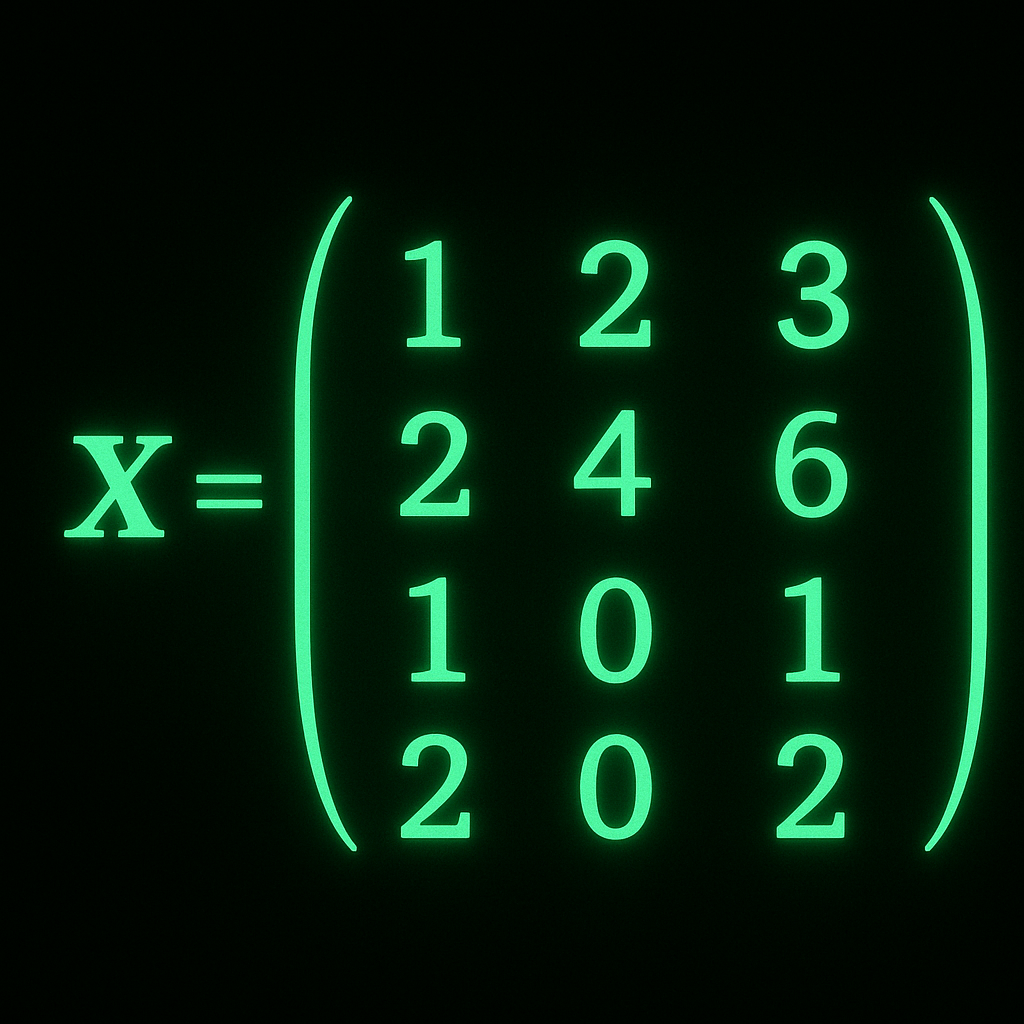
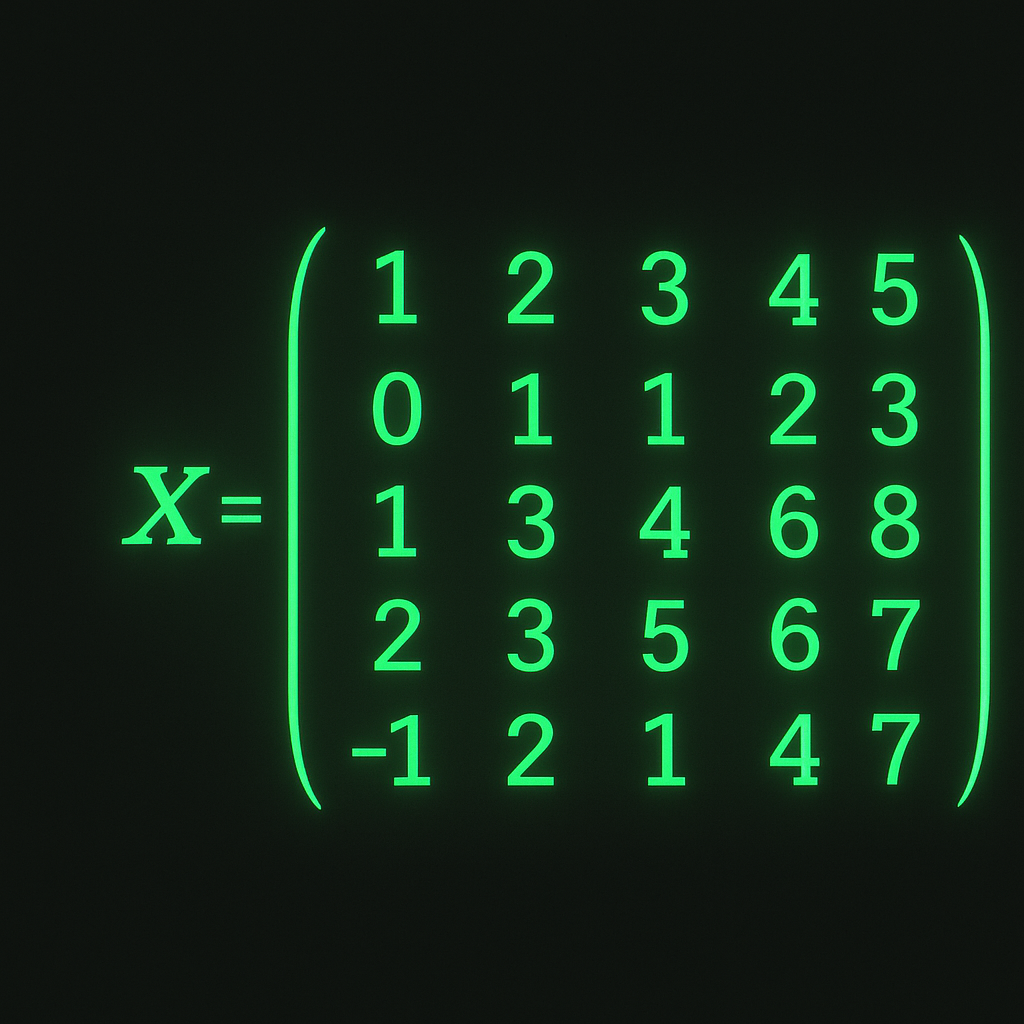
aghh

Changed region(s): [[0.0625, 0.1875, 0.6875, 0.8438], [0.7188, 0.1875, 0.9688, 0.8438]]

diff --git a/src/data/posts.ts b/src/data/posts.ts
@@ -318,65 +318,72 @@ the first and third rows. With these two rows, we can construct the others, as s
 $$
 X = A B =
 \\begin{bmatrix}
-1 & 2 & 3 \\\\
-2 & 4 & 6 \\\\
-1 & 0 & 1 \\\\
-2 & 0 & 2
+1 & 2 & 3 & 4 & 5 \\\\
+0 & 1 & 1 & 2 & 3 \\\\
+1 & 3 & 4 & 6 & 8 \\\\
+2 & 3 & 5 & 6 & 7 \\\\
+-1 & 2 & 1 & 4 & 7
 \\end{bmatrix}
-\\approx
+=
 \\begin{bmatrix}
 1 & 0 \\\\
-2 & 0 \\\\
 0 & 1 \\\\
-0 & 2
+1 & 1 \\\\
+2 & -1 \\\\
+-1 & 4
 \\end{bmatrix}
 \\begin{bmatrix}
-1 & 2 & 3 \\\\
-1 & 0 & 1
+1 & 2 & 3 & 4 & 5 \\\\
+0 & 1 & 1 & 2 & 3
 \\end{bmatrix}
 $$
 
-We can see that:
+Because:
 
 $$
 \\begin{aligned}
-\\text{Row}_2 &= 2 \\times \\text{Row}_1, \\\\
-\\text{Row}_4 &= 2 \\times \\text{Row}_3.
+\\text{Row}_3 &= \\text{Row}_1 + \\text{Row}_2, \\\\
+\\text{Row}_4 &= 2\\,\\text{Row}_1 - \\text{Row}_2, \\\\
+\\text{Row}_5 &= -\\text{Row}_1 + 4\\,\\text{Row}_2.
 \\end{aligned}
 $$
 
-Hence, the rank of \( X \) is **2** (only two linearly independent rows).
+Hence, the rank of **X** is **2** (only two linearly independent rows). We can
+conclude that the rank of a matrix gives us an idea of "information content" of a matrix,
+i.e., how many rows (or columns) are needed to represent the entire matrix. **Higher ranks 
+indicate more information content (less compressible), while lower-rank matrices indicate redundancy 
+(more compressible).**
 But how does this help in reducing parameters in LoRA?
 ## Matrix Decomposition
 Matrix decomposition is the process of breaking down a matrix into a product of two or more matrices.
-When we know the rank of a matrix, we can decompose it into two smaller matrices, without losing much information.
-for example, the above matrix \( X \) can be decomposed into two matrices \( A \) and \( B \):
+Now, 
+for example, the above matrix **X** can be decomposed into two matrices \( A \) and \( B \):
 $$
-X \approx A \times B =
+X = A \times B =
 \\begin{bmatrix}
-1 & 2 & 3 \\\\
-2 & 4 & 6 \\\\
-1 & 0 & 1 \\\\
-2 & 0 & 2
+1 & 2 & 3 & 4 & 5 \\\\
+0 & 1 & 1 & 2 & 3 \\\\
+1 & 3 & 4 & 6 & 8 \\\\
+2 & 3 & 5 & 6 & 7 \\\\
+-1 & 2 & 1 & 4 & 7
 \\end{bmatrix}
-\\approx
+=
 \\begin{bmatrix}
 1 & 0 \\\\
-2 & 0 \\\\
 0 & 1 \\\\
-0 & 2
+1 & 1 \\\\
+2 & -1 \\\\
+-1 & 4
 \\end{bmatrix}
 \\begin{bmatrix}
-1 & 2 & 3 \\\\
-1 & 0 & 1
+1 & 2 & 3 & 4 & 5 \\\\
+0 & 1 & 1 & 2 & 3
 \\end{bmatrix}
 $$
 
 Now the main parameter here is the rank (2 in this case), which determines the size of the decomposed matrices.
 By choosing a smaller rank, we can reduce the number of parameters significantly.
-For example, the original matrix \( X \) has \( 4 \times 3 = 12 \) parameters, while the decomposed matrices with rank 1
-have \( (4 \times 1) + (1 \times 3) = 7 \) parameters, which is a reduction of about 41.67%. This technique 
-is the core idea behind LoRA, and its efficiency increases with larger matrices commonly found in deep learning models (like LLMs)
+For example, the original matrix \( X \) has \( 5 \\times 5 = 25 \) parameters, while a rank-2 factorization uses \( (5 \\times 2) + (2 \\times 5) = 20 \) parameters — a **20%** reduction.
 ## LoRA in Action
 test3
 test4\n
